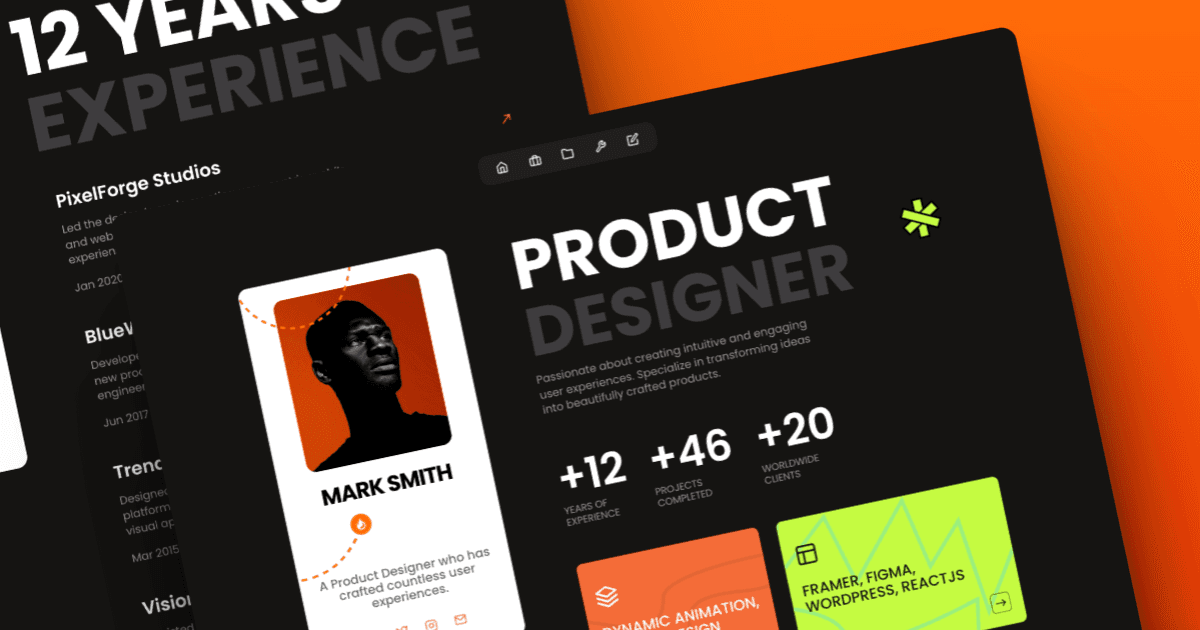
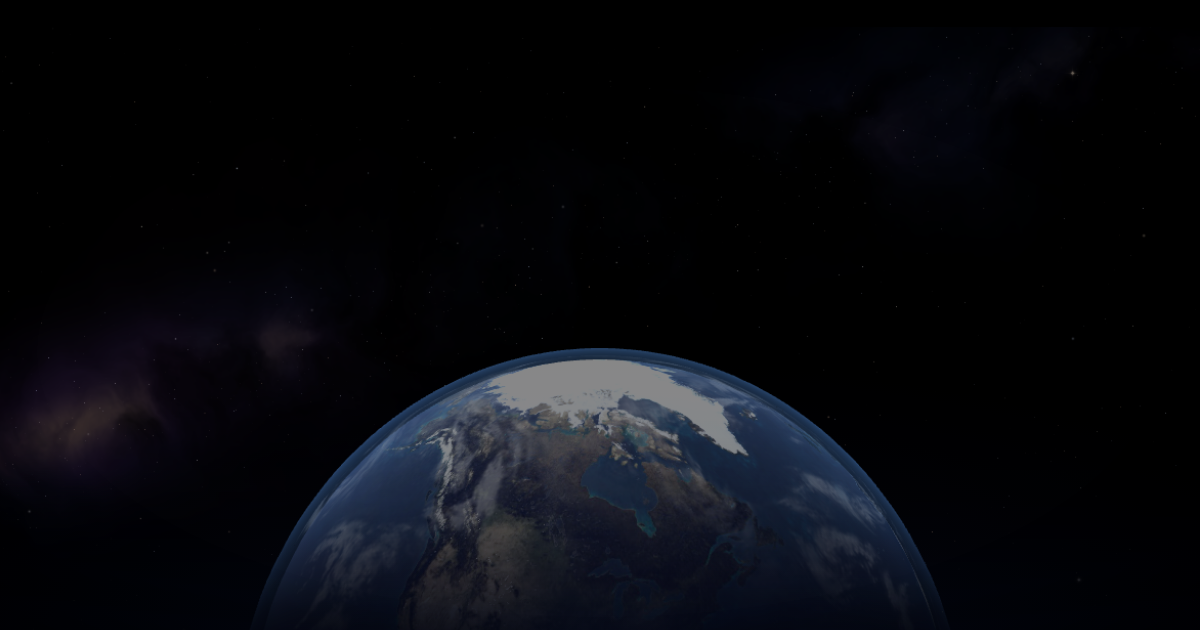
Use Earth hero screenshot as OG image with absolute URLs

diff --git a/index.html b/index.html
@@ -10,9 +10,9 @@
   <meta property="og:type" content="website">
   <meta property="og:title" content="Muhammad Jundi Assabiq &middot; Portfolio">
   <meta property="og:description" content="Portfolio of Muhammad Jundi Assabiq, an undergraduate Informatics student passionate about automation and software development.">
-  <meta property="og:image" content="assets/images/og-image.png">
+  <meta property="og:image" content="https://jundiaiq.my.id/assets/images/og-image.png">
   <meta name="twitter:card" content="summary_large_image">
-  <meta name="twitter:image" content="assets/images/og-image.png">
+  <meta name="twitter:image" content="https://jundiaiq.my.id/assets/images/og-image.png">
 
   <link rel="icon" type="image/png" href="assets/images/favicon.png?v=2">
   <link rel="apple-touch-icon" href="assets/images/apple-touch-icon.png">
